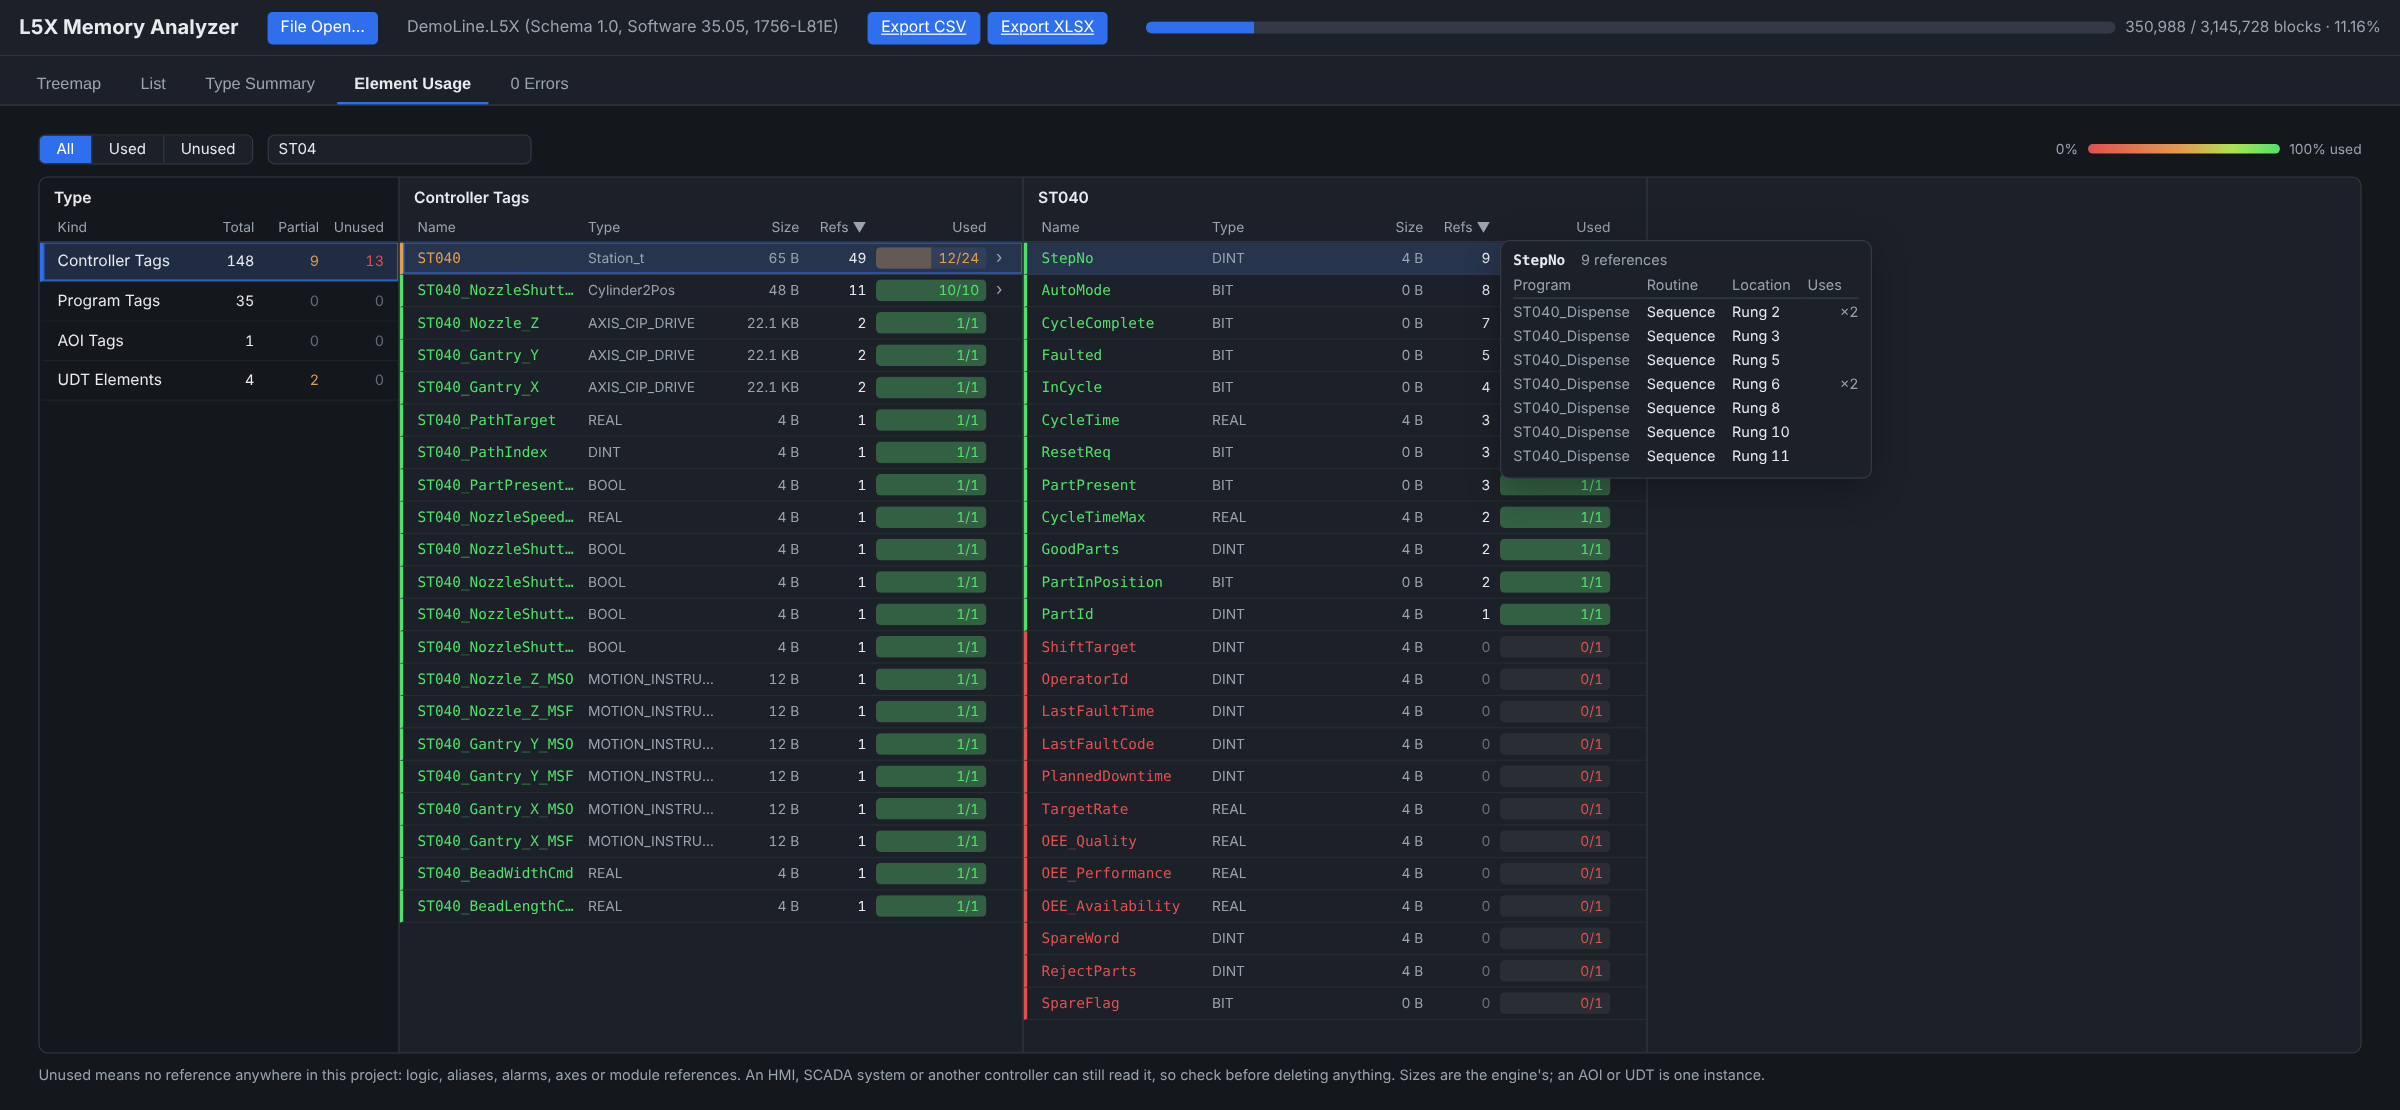
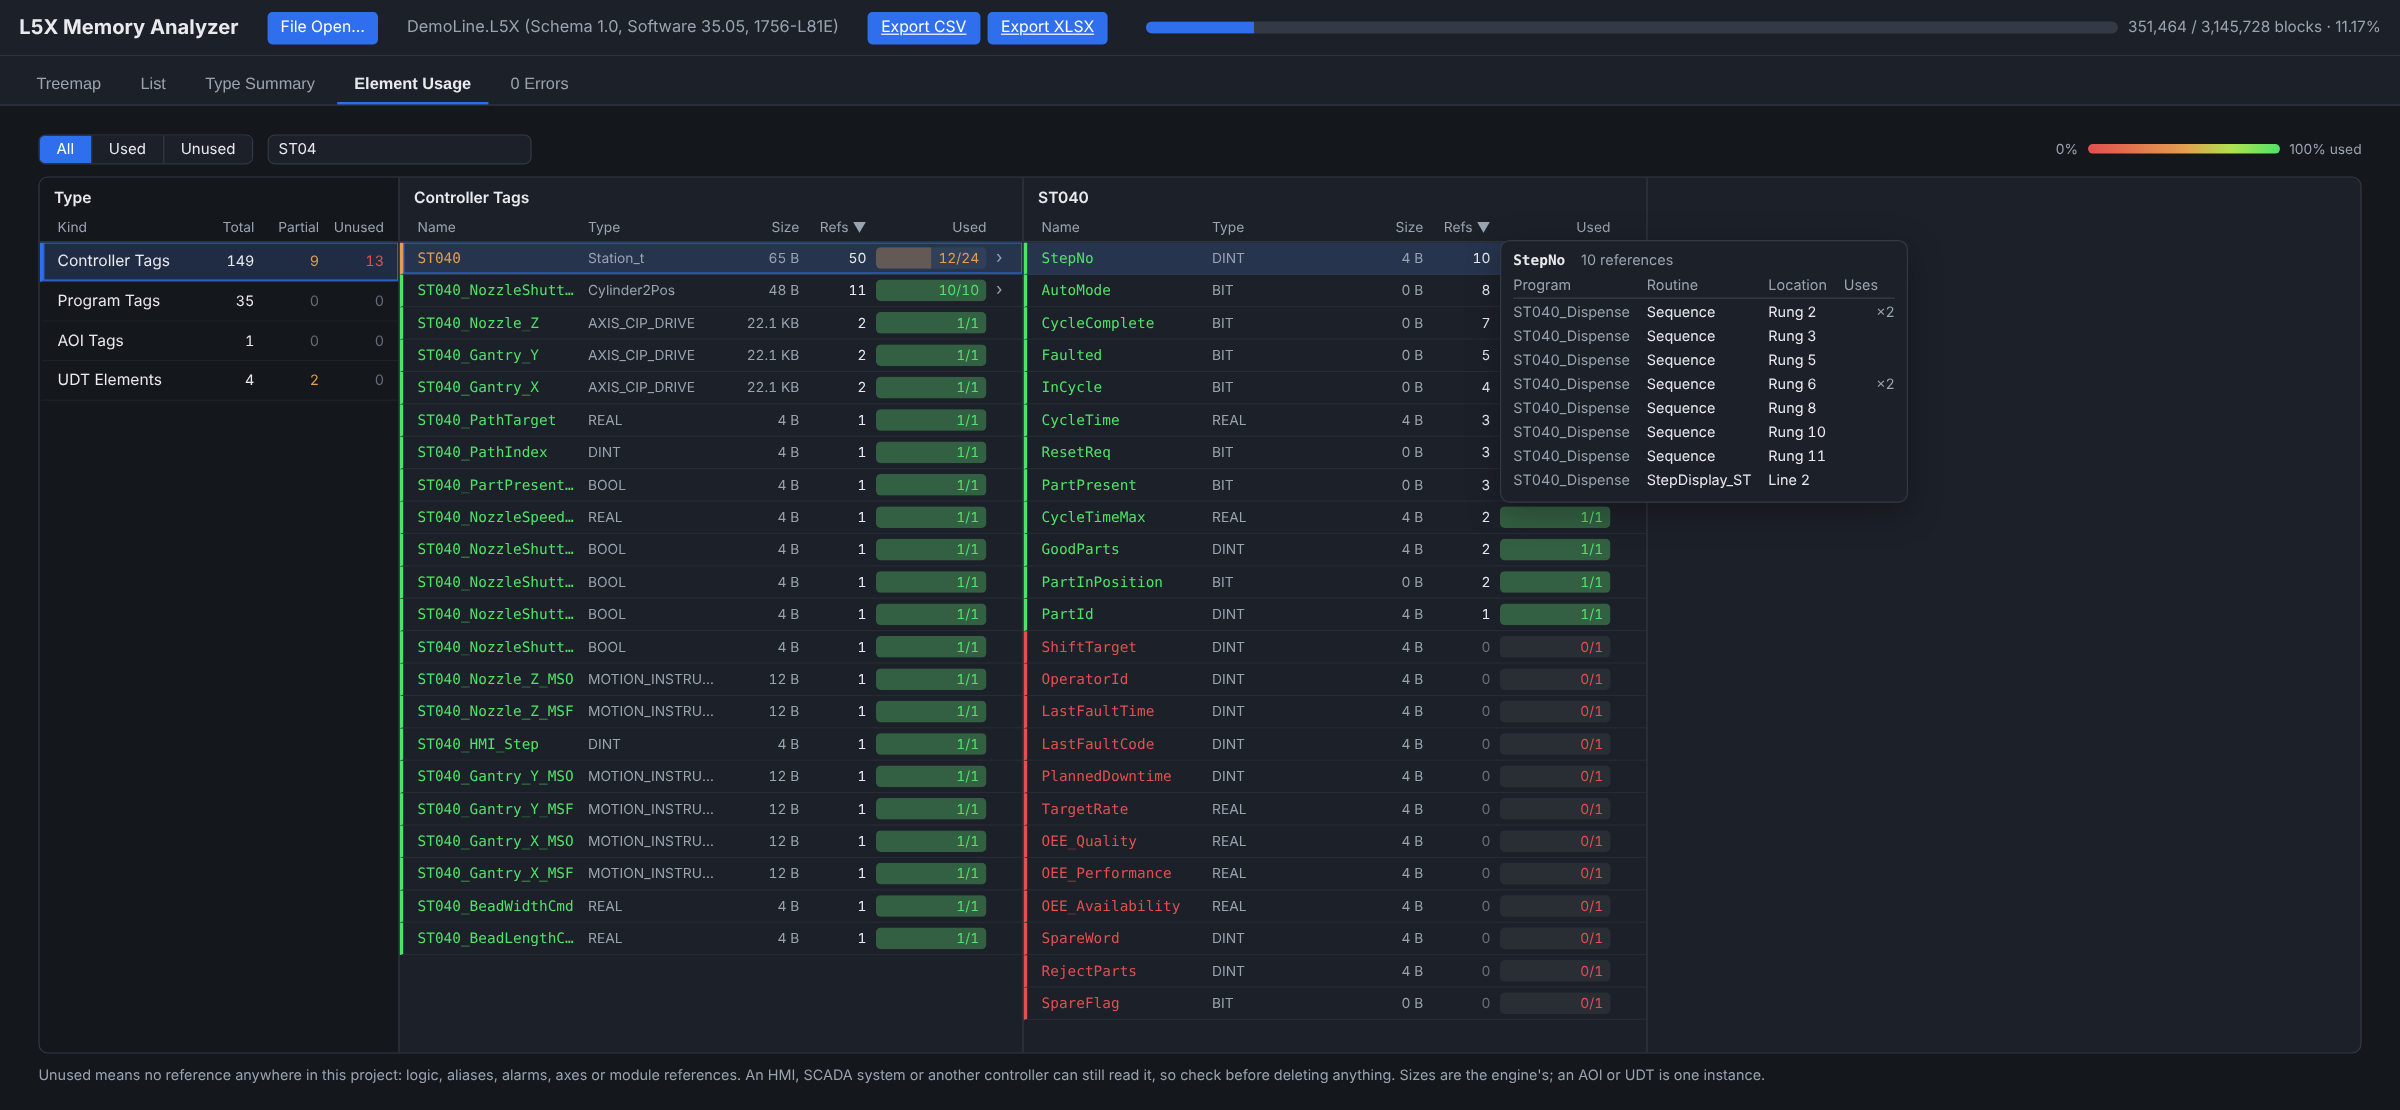
Refs card: ST lines numbered from 1 as the editor shows them, FBD references by sheet and the element's X / Y; demo gains an ST step display (FBD only with with_fbd=True: FBD logic is unpriced)
Claude-Session: https://claude.ai/code/session_01AGy4dVMQ2dzjTxeVGQMwxh

diff --git a/scripts/build_demo_project.py b/scripts/build_demo_project.py
@@ -140,13 +140,28 @@ def _routine(name: str, texts: list[str]) -> str:
     return f'<Routine Name="{name}" Type="RLL">\n<RLLContent>\n{body}\n</RLLContent>\n</Routine>'
 
 
+def _st_routine(name: str, lines: list[str]) -> str:
+    body = "\n".join(f'<Line Number="{i}">\n<![CDATA[{t}]]>\n</Line>' for i, t in enumerate(lines))
+    return f'<Routine Name="{name}" Type="ST">\n<STContent>\n{body}\n</STContent>\n</Routine>'
+
+
+def _fbd_wire_routine(name: str, source: str, dest: str) -> str:
+    """An FBD routine of one sheet: an input reference wired straight to an output reference."""
+    return (f'<Routine Name="{name}" Type="FBD">\n<FBDContent SheetSize="Letter - 8.5 x 11 in" '
+            f'SheetOrientation="Landscape">\n<Sheet Number="1">\n'
+            f'<IRef ID="0" X="180" Y="120" Operand="{source}" HideDesc="false"/>\n'
+            f'<ORef ID="1" X="420" Y="120" Operand="{dest}" HideDesc="false"/>\n'
+            f'<Wire FromID="0" ToID="1"/>\n</Sheet>\n</FBDContent>\n</Routine>')
+
+
 def _program(name: str, tags: list[str], routines: list[str]) -> str:
     return (f'<Program Name="{name}" TestEdits="false" MainRoutineName="MainRoutine" Disabled="false" '
             f'UseAsFolder="false">\n<Tags>\n' + "\n".join(tags) + "\n</Tags>\n<Routines>\n"
             + "\n".join(routines) + "\n</Routines>\n</Program>")
 
 
-def _station(k: int, s: str, prog: str, cyls: list[str], axes: list[str]) -> tuple[str, list[str]]:
+def _station(k: int, s: str, prog: str, cyls: list[str], axes: list[str],
+             with_fbd: bool = False) -> tuple[str, list[str]]:
     """One station program, and the controller tags it owns."""
     cyl = [f"{s}_{c}" for c in cyls]
     tags = [tag_xml(s, "Station_t", udt_members=STATION_T), tag_xml(f"{s}_PartPresent_PX", "BOOL")]
@@ -236,6 +251,18 @@ def _station(k: int, s: str, prog: str, cyls: list[str], axes: list[str]) -> tup
     if motion:
         main.append("JSR(Motion,0);")
         routines.append(_routine("Motion", motion))
+    if s == "ST040":
+        # The HMI step display in Structured Text, and with_fbd also in a function block sheet.
+        # FBD is off by default: the engine lists FBD logic as unpriced, and the demo must
+        # open with nothing unpriced.
+        main.append("JSR(StepDisplay_ST,0);")
+        routines.append(_st_routine("StepDisplay_ST", ["(* step number for the HMI *)",
+                                                       "ST040_HMI_Step := ST040.StepNo;"]))
+        tags.append(tag_xml("ST040_HMI_Step", "DINT"))
+        if with_fbd:
+            main.append("JSR(StepDisplay_FBD,0);")
+            routines.append(_fbd_wire_routine("StepDisplay_FBD", "ST040.StepNo", "ST040_HMI_StepFBD"))
+            tags.append(tag_xml("ST040_HMI_StepFBD", "DINT"))
     if s == "ST080":
         # Left behind by an earlier homing scheme: nothing calls it any more.
         routines.append(_routine("Retired_Homing", [
@@ -248,7 +275,7 @@ def _station(k: int, s: str, prog: str, cyls: list[str], axes: list[str]) -> tup
     return _program(prog, prog_tags, [_routine("MainRoutine", main)] + routines), tags
 
 
-def build() -> str:
+def build(with_fbd: bool = False) -> str:
     aoi_def, cyl_storage = _cylinder_aoi()
     supply, converter = bus_supply_with_converter(
         name="Kinetix_BusSupply", address="192.168.1.10", axis_name="Bus_Converter_Axis")
@@ -279,7 +306,7 @@ def build() -> str:
 
     programs, scheduled = [], []
     for k, (s, prog, cyls, axes) in enumerate(STATIONS):
-        program, station_tags = _station(k, s, prog, cyls, axes)
+        program, station_tags = _station(k, s, prog, cyls, axes, with_fbd)
         programs.append(program)
         scheduled.append(f'<ScheduledProgram Name="{prog}"/>')
         tags += station_tags

diff --git a/src/l5x_memory_analyzer/usage.py b/src/l5x_memory_analyzer/usage.py
@@ -221,18 +221,26 @@ class UsageIndex:
         text, ST lines, and FBD / SFC operands, each with where it sits."""
         r = routine.get("Name")
         where = (owner, r, "")
+        sheet = None
         for el in routine.iter():
             tag = el.tag
             if tag == "Rung":
                 where = (owner, r, f"Rung {el.get('Number')}")
             elif tag == "Sheet":
-                where = (owner, r, f"Sheet {el.get('Number')}")
+                sheet = el.get("Number")
+                where = (owner, r, f"Sheet {sheet}")
             elif tag == "Text":
                 yield where, el.text or ""
             elif tag == "Line":
-                yield (owner, r, f"Line {el.get('Number')}"), _ST_STRING.sub(" ", _ST_COMMENT.sub(" ", el.text or ""))
+                # The L5X numbers ST lines from 0; the editor shows them from 1.
+                yield (owner, r, f"Line {int(el.get('Number') or 0) + 1}"), \
+                    _ST_STRING.sub(" ", _ST_COMMENT.sub(" ", el.text or ""))
             if tag != "Line" and el.get("Operand"):
-                yield where, el.get("Operand")
+                if sheet is not None and el.get("X") is not None:
+                    # An FBD element: its sheet and its position on it, as the export gives it.
+                    yield (owner, r, f"Sheet {sheet}, X {el.get('X')} Y {el.get('Y')}"), el.get("Operand")
+                else:
+                    yield where, el.get("Operand")
 
     def _resolve(self, scope: str, base: str) -> str | None:
         if scope != CONTROLLER_SCOPE and base in self._types.get(scope, {}):

diff --git a/tests/test_unused_report.py b/tests/test_unused_report.py
@@ -117,3 +117,19 @@ def test_endpoints(tmp_path):
     detail = client.get(f"/api/unused/item?kind=controller_tags&index={rec}").get_json()
     assert detail["n"] == "Rec" and len(detail["c"]) == 2
     assert client.get("/api/unused/item?kind=nope&index=0").status_code == 404
+
+
+def test_st_lines_count_from_one_and_fbd_elements_give_sheet_and_position():
+    st = ('<Routine Name="Disp" Type="ST"><STContent><Line Number="0"><![CDATA[(* note *)]]></Line>'
+          '<Line Number="1"><![CDATA[Dst := Rec.Id;]]></Line></STContent></Routine>')
+    fbd = ('<Routine Name="Wire" Type="FBD"><FBDContent SheetSize="Letter - 8.5 x 11 in" SheetOrientation="Landscape">'
+           '<Sheet Number="1"><IRef ID="0" X="180" Y="120" Operand="Rec.Id" HideDesc="false"/>'
+           '<ORef ID="1" X="420" Y="120" Operand="Dst" HideDesc="false"/><Wire FromID="0" ToID="1"/></Sheet>'
+           '</FBDContent></Routine>')
+    l5x = build_l5x(target_name="Places", tags_xml=tag_xml("Rec", "Rec_t", udt_members=_REC) + tag_xml("Dst", "DINT"),
+                    extra_datatypes_xml=udt_xml("Rec_t", _REC), extra_routines_xml=st + fbd,
+                    extra_rungs_xml=rung_xml(0, "JSR(Disp,0);JSR(Wire,0);"))
+    u = UsageIndex(ET.fromstring(l5x))
+    places = u._tries["controller/Rec"].kids[".Id"].locs
+    assert ["MainProgram", "Disp", "Line 2", 1] in places
+    assert ["MainProgram", "Wire", "Sheet 1, X 180 Y 120", 1] in places

diff --git a/README.md b/README.md
@@ -118,10 +118,11 @@ Click **Name**, **Type**, **Size** or **Refs** at the top of any column to sort 
 by it, and switch **All / Used / Unused** to filter. Sorted by Refs, a station's busiest
 members come first and the ones nothing names sink to the bottom. **Hover a Refs count** to
 see those references: up to ten, each as **Program** (or AOI), **Routine** and **Location**
-(rung, ST line or FBD sheet), with how many times that location uses it; alarms and axes are
+(a rung, a Structured Text line, or an FBD sheet with the element's X / Y position on it),
+with how many times that location uses it; alarms and axes are
 named as such, and a UDT lists its first ten instances:
 
-![Element Usage: the ST040 station tag opened and sorted by Refs, its planned OEE fields in red below the used members, hovering StepNo's 9 references: seven rungs of ST040_Dispense / Sequence, two of them using it twice](docs/images/element_usage_refs.png)
+![Element Usage: the ST040 station tag opened and sorted by Refs, its planned OEE fields in red below the used members, hovering StepNo's 10 references: seven rungs of ST040_Dispense / Sequence, two of them using it twice, and line 2 of the StepDisplay_ST routine](docs/images/element_usage_refs.png)
 
 "Used" means the same thing as the **Uses** count above: referenced by logic, an alias, an
 alarm, an axis or a module somewhere in this L5X. An element is also used when its whole
